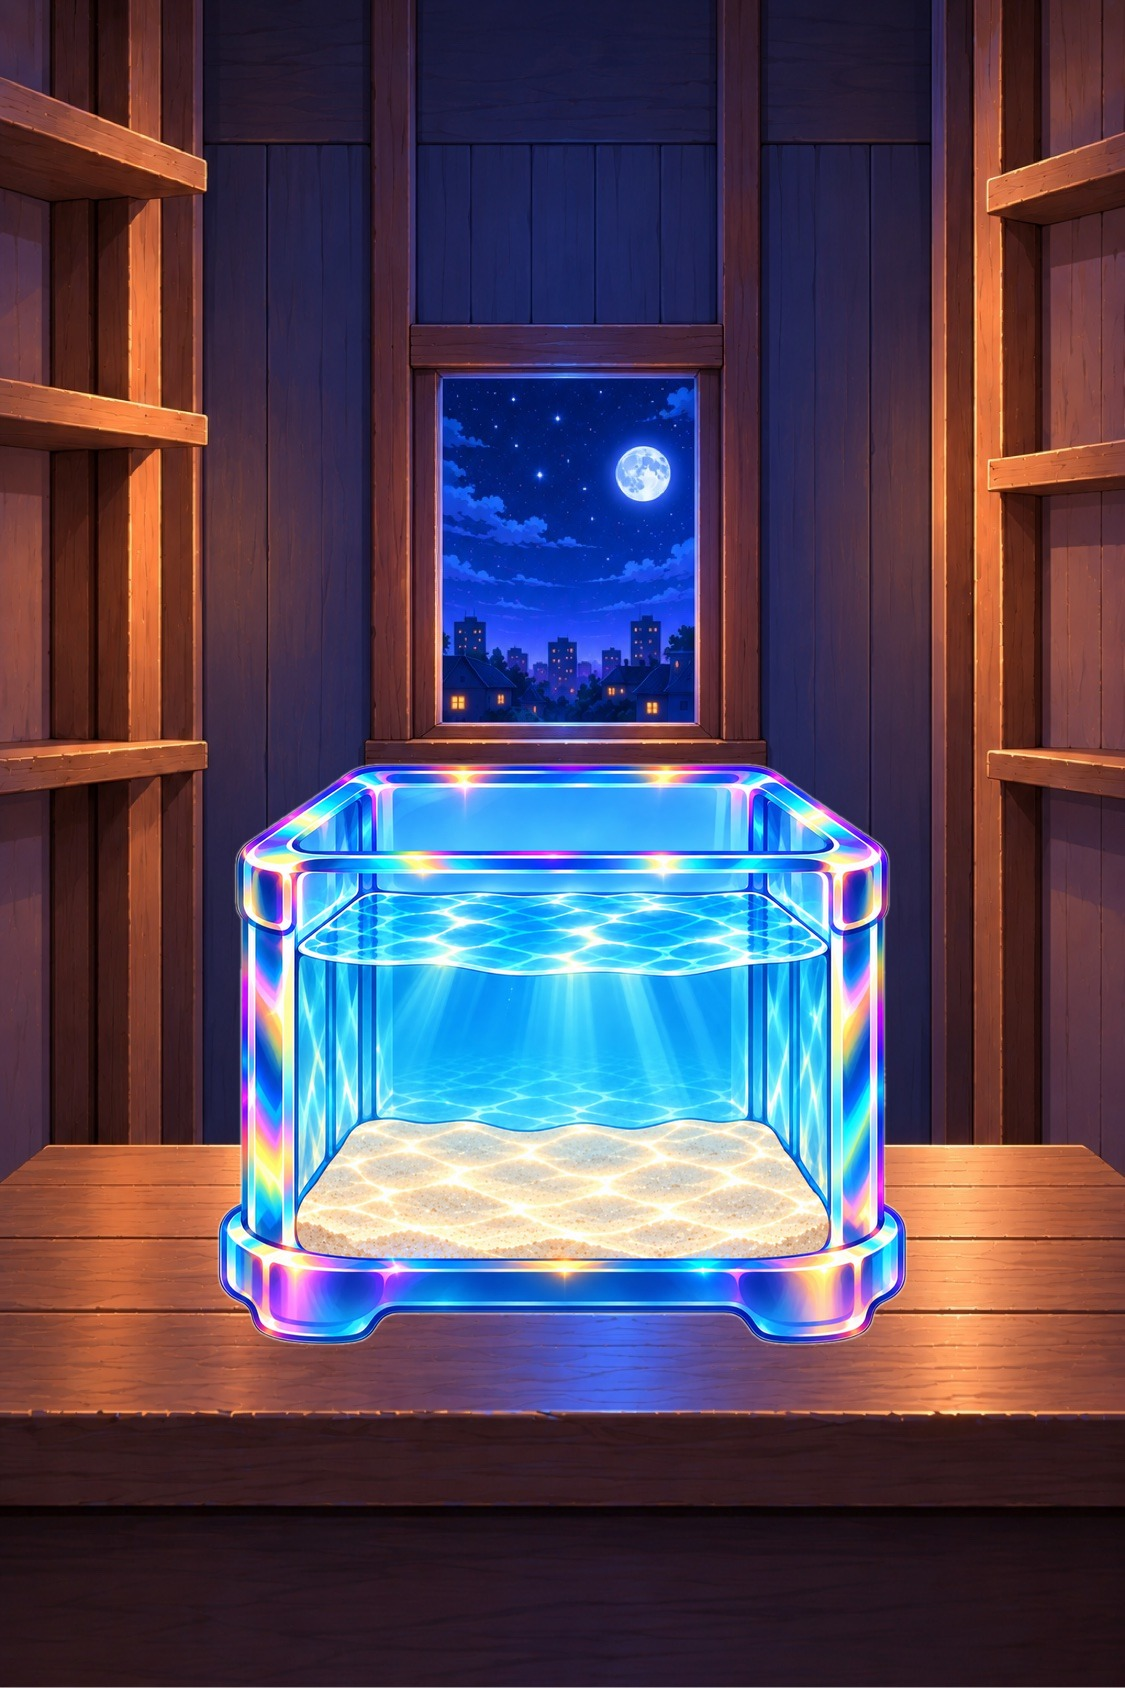
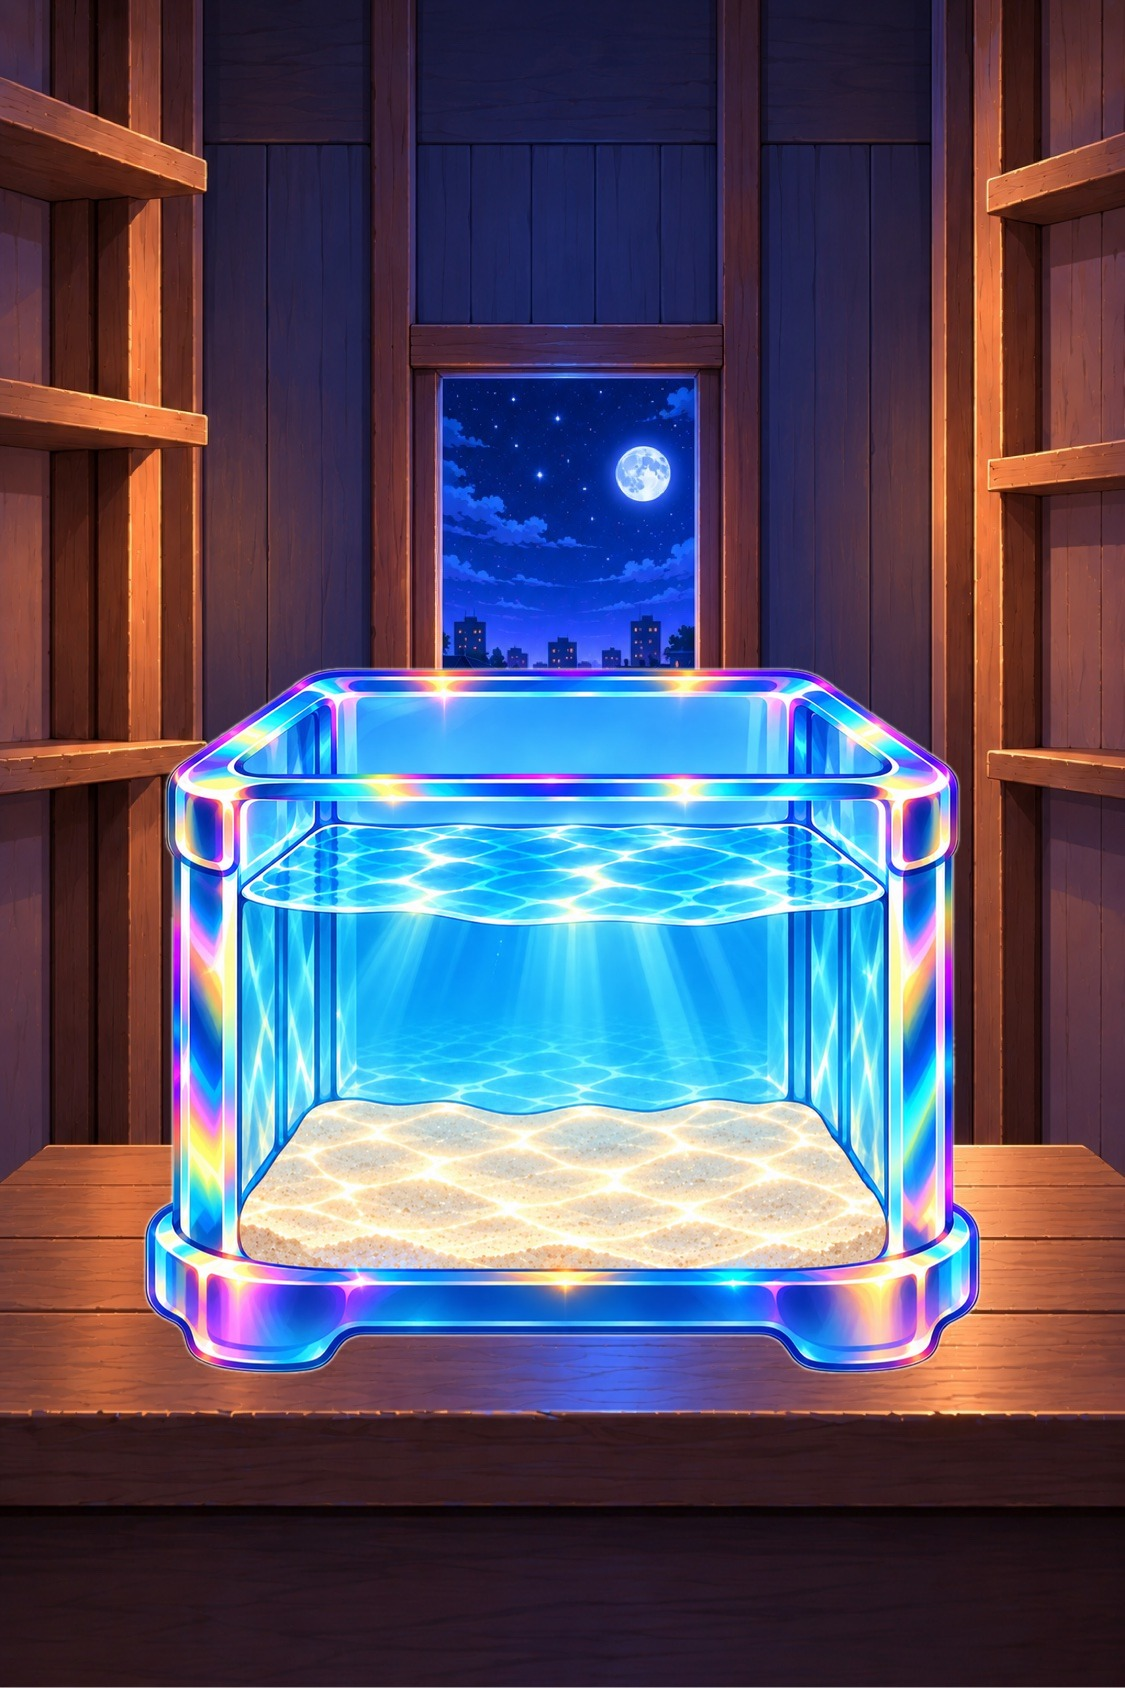
Small tank: 850px, positioned lil down on table

Changed region(s): [[0.1244, 0.3697, 0.8711, 0.8318]]

diff --git a/public/js/tank.js b/public/js/tank.js
@@ -114,7 +114,7 @@ class TankView {
       const cx = this.cssW / 2, cy = this.cssH / 2;
       // tank center in artwork fractions (for each tier)
       const focus = {
-        small:  { fx: 0.5, fy: 0.624 },  // tank at (212,758) 700x592 on 1125x1688
+        small:  { fx: 0.5, fy: 0.605 },  // tank at (137,661) 850x719 on 1125x1688
         medium: { fx: 0.5, fy: 0.616 },  // tank at (62,728) 1000x622 on 1125x1688
         large:  { fx: 0.5, fy: 0.643 },  // tank at (2,822) 1120x528 on 1125x1688
         xl:     { fx: 0.5, fy: 0.551 },  // tank at (2,510) 1120x840 on 1125x1688

diff --git a/public/js/data.js b/public/js/data.js
@@ -14,7 +14,7 @@ const DATA = {
   // measured glass rectangles, fractions of artwork (per API_CONTRACT.md §Glass)
   // small: two-layer composite (tank_small_bg.jpg + tank_small_fg.png via build_small_tank.py)
   GLASS: {
-    small:  { left: .260, right: .739, top: .568, bottom: .754 },
+    small:  { left: .209, right: .790, top: .536, bottom: .762 },
     medium: { left: .134, right: .865, top: .526, bottom: .758 },
     large:  { left: .046, right: .954, top: .570, bottom: .770 },
     xl:     { left: .046, right: .954, top: .402, bottom: .750 },

diff --git a/build_small_tank.py b/build_small_tank.py
@@ -22,8 +22,8 @@ FG_FILE = os.path.join(TANKS, "tank_small_fg.png")
 OUT_FILE = os.path.join(TANKS, "tank_small.jpg")
 
 # Tank placement (tuned with user)
-TANK_W = 700
-TANK_BOTTOM_Y = 1350  # sitting on table  # middle of table
+TANK_W = 850
+TANK_BOTTOM_Y = 1380  # sitting on table, lil down  # middle of table
 
 def main():
     bg = Image.open(BG_FILE).convert("RGB")
